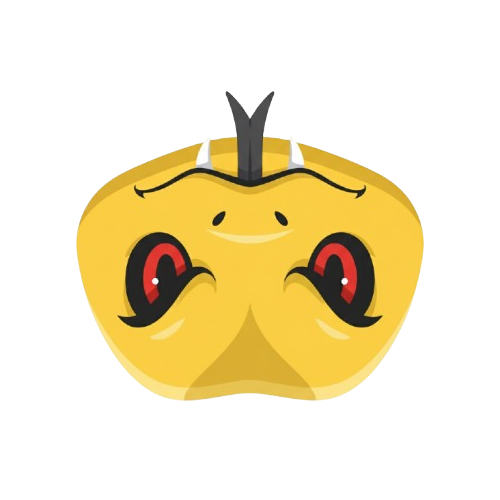
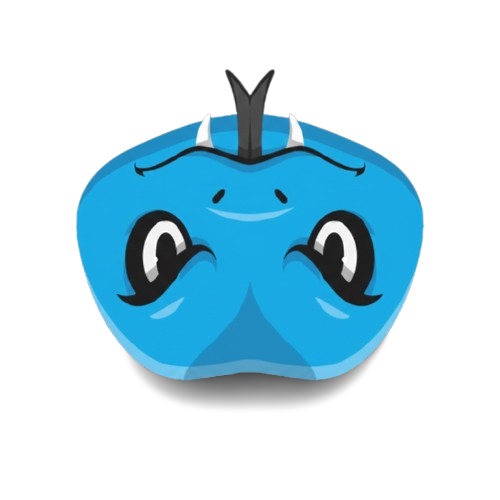
Đổi màu rắn (thành màu xanh)

diff --git a/ran_san_moi/snake.py b/ran_san_moi/snake.py
@@ -2,7 +2,7 @@
 
 import pygame
 from pygame.math import Vector2
-from constants import cell_size, OFFSET, YELLOW, BLACK, HEAD_SIZE, screen, snake_head_surface
+from constants import cell_size, OFFSET, YELLOW, BLUE, BLACK, HEAD_SIZE, screen, snake_head_surface
 
 class Snake:
     def __init__(self):
@@ -18,9 +18,9 @@ class Snake:
                             cell_size, cell_size)
             
             if index % 2 == 0:
-                color = YELLOW
+                color = BLUE
             else:
-                color = BLACK
+                color = BLUE
             
             pygame.draw.rect(screen, color, segment_rect, 0, 7)
 

diff --git a/ran_san_moi/settings.py b/ran_san_moi/settings.py
@@ -15,9 +15,10 @@ WHITE = (255, 255, 255)
 BLACK = (0, 0, 0) 
 HEAD_COLOR = (255, 60, 60) 
 DARK_GREEN = (43, 51, 24) 
+BLUE = (0, 150, 255)
 
 # --- KÍCH THƯỚC GAME ---
-cell_size = 25       
+cell_size = 25     
 number_of_cells = 20 
 OFFSET = 75          
 

diff --git a/ran_san_moi/game.py b/ran_san_moi/game.py
@@ -117,3 +117,4 @@ class Game:
         self.game_running = True
         self.countdown_active = False
         self.high_score = self.hs_manager.load()
+
